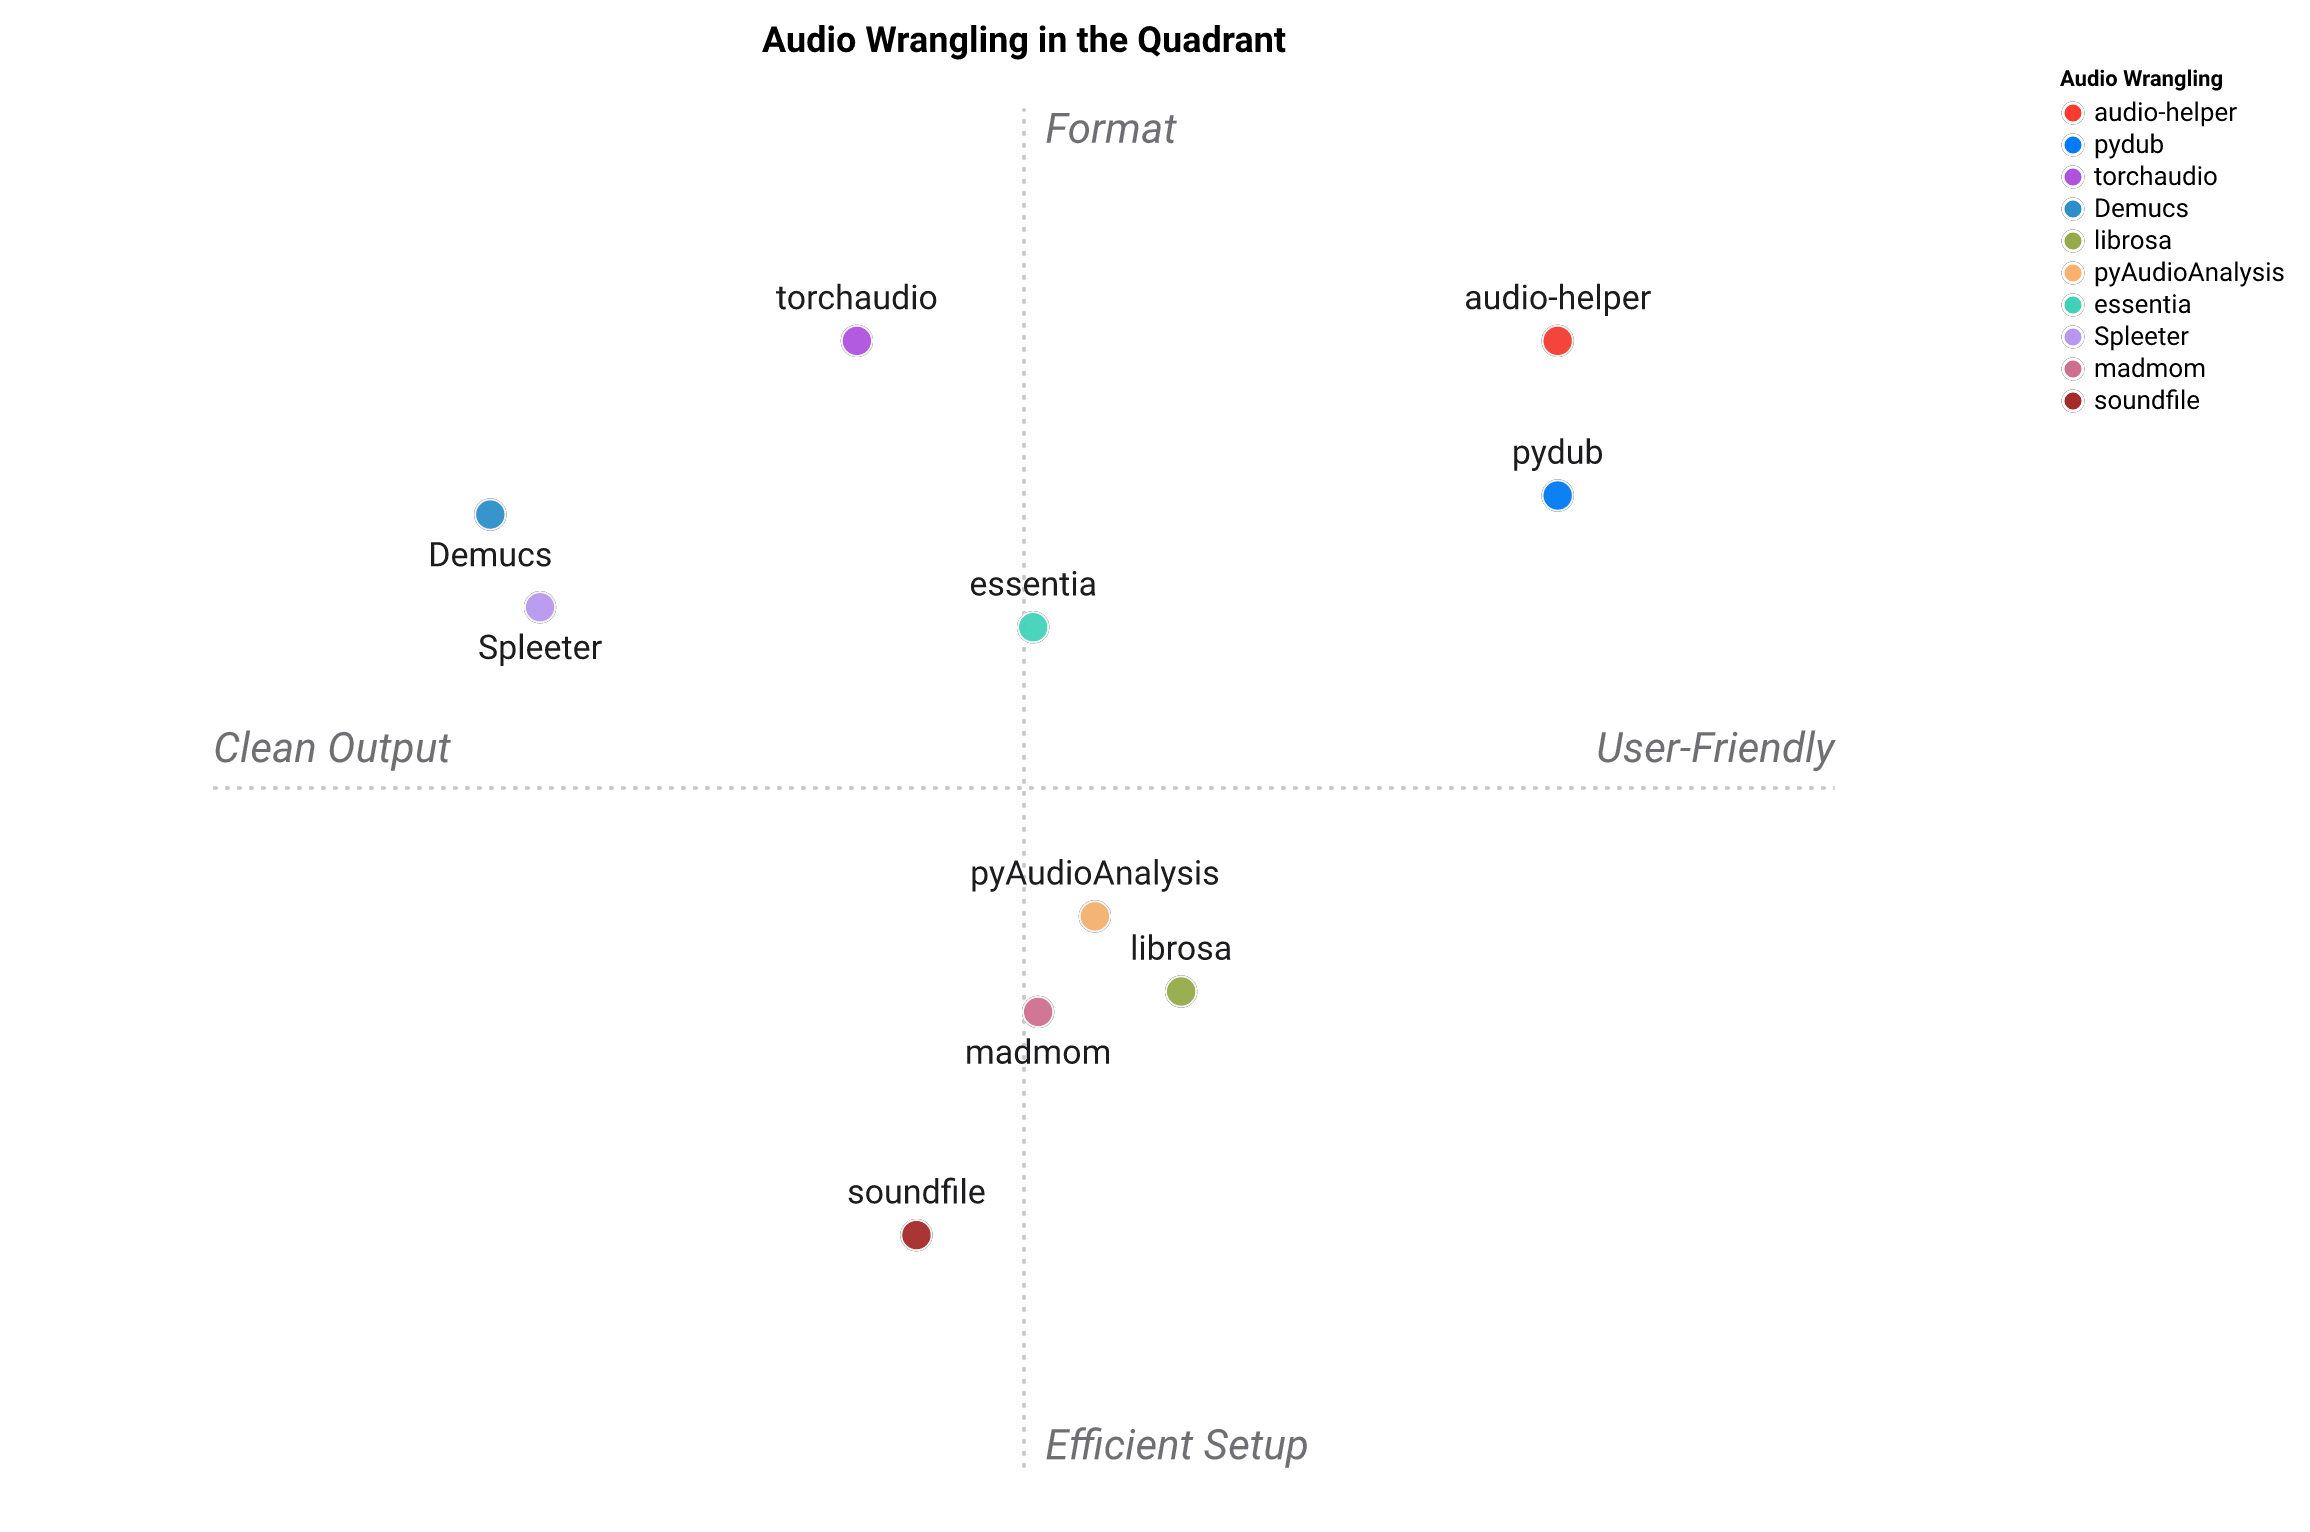
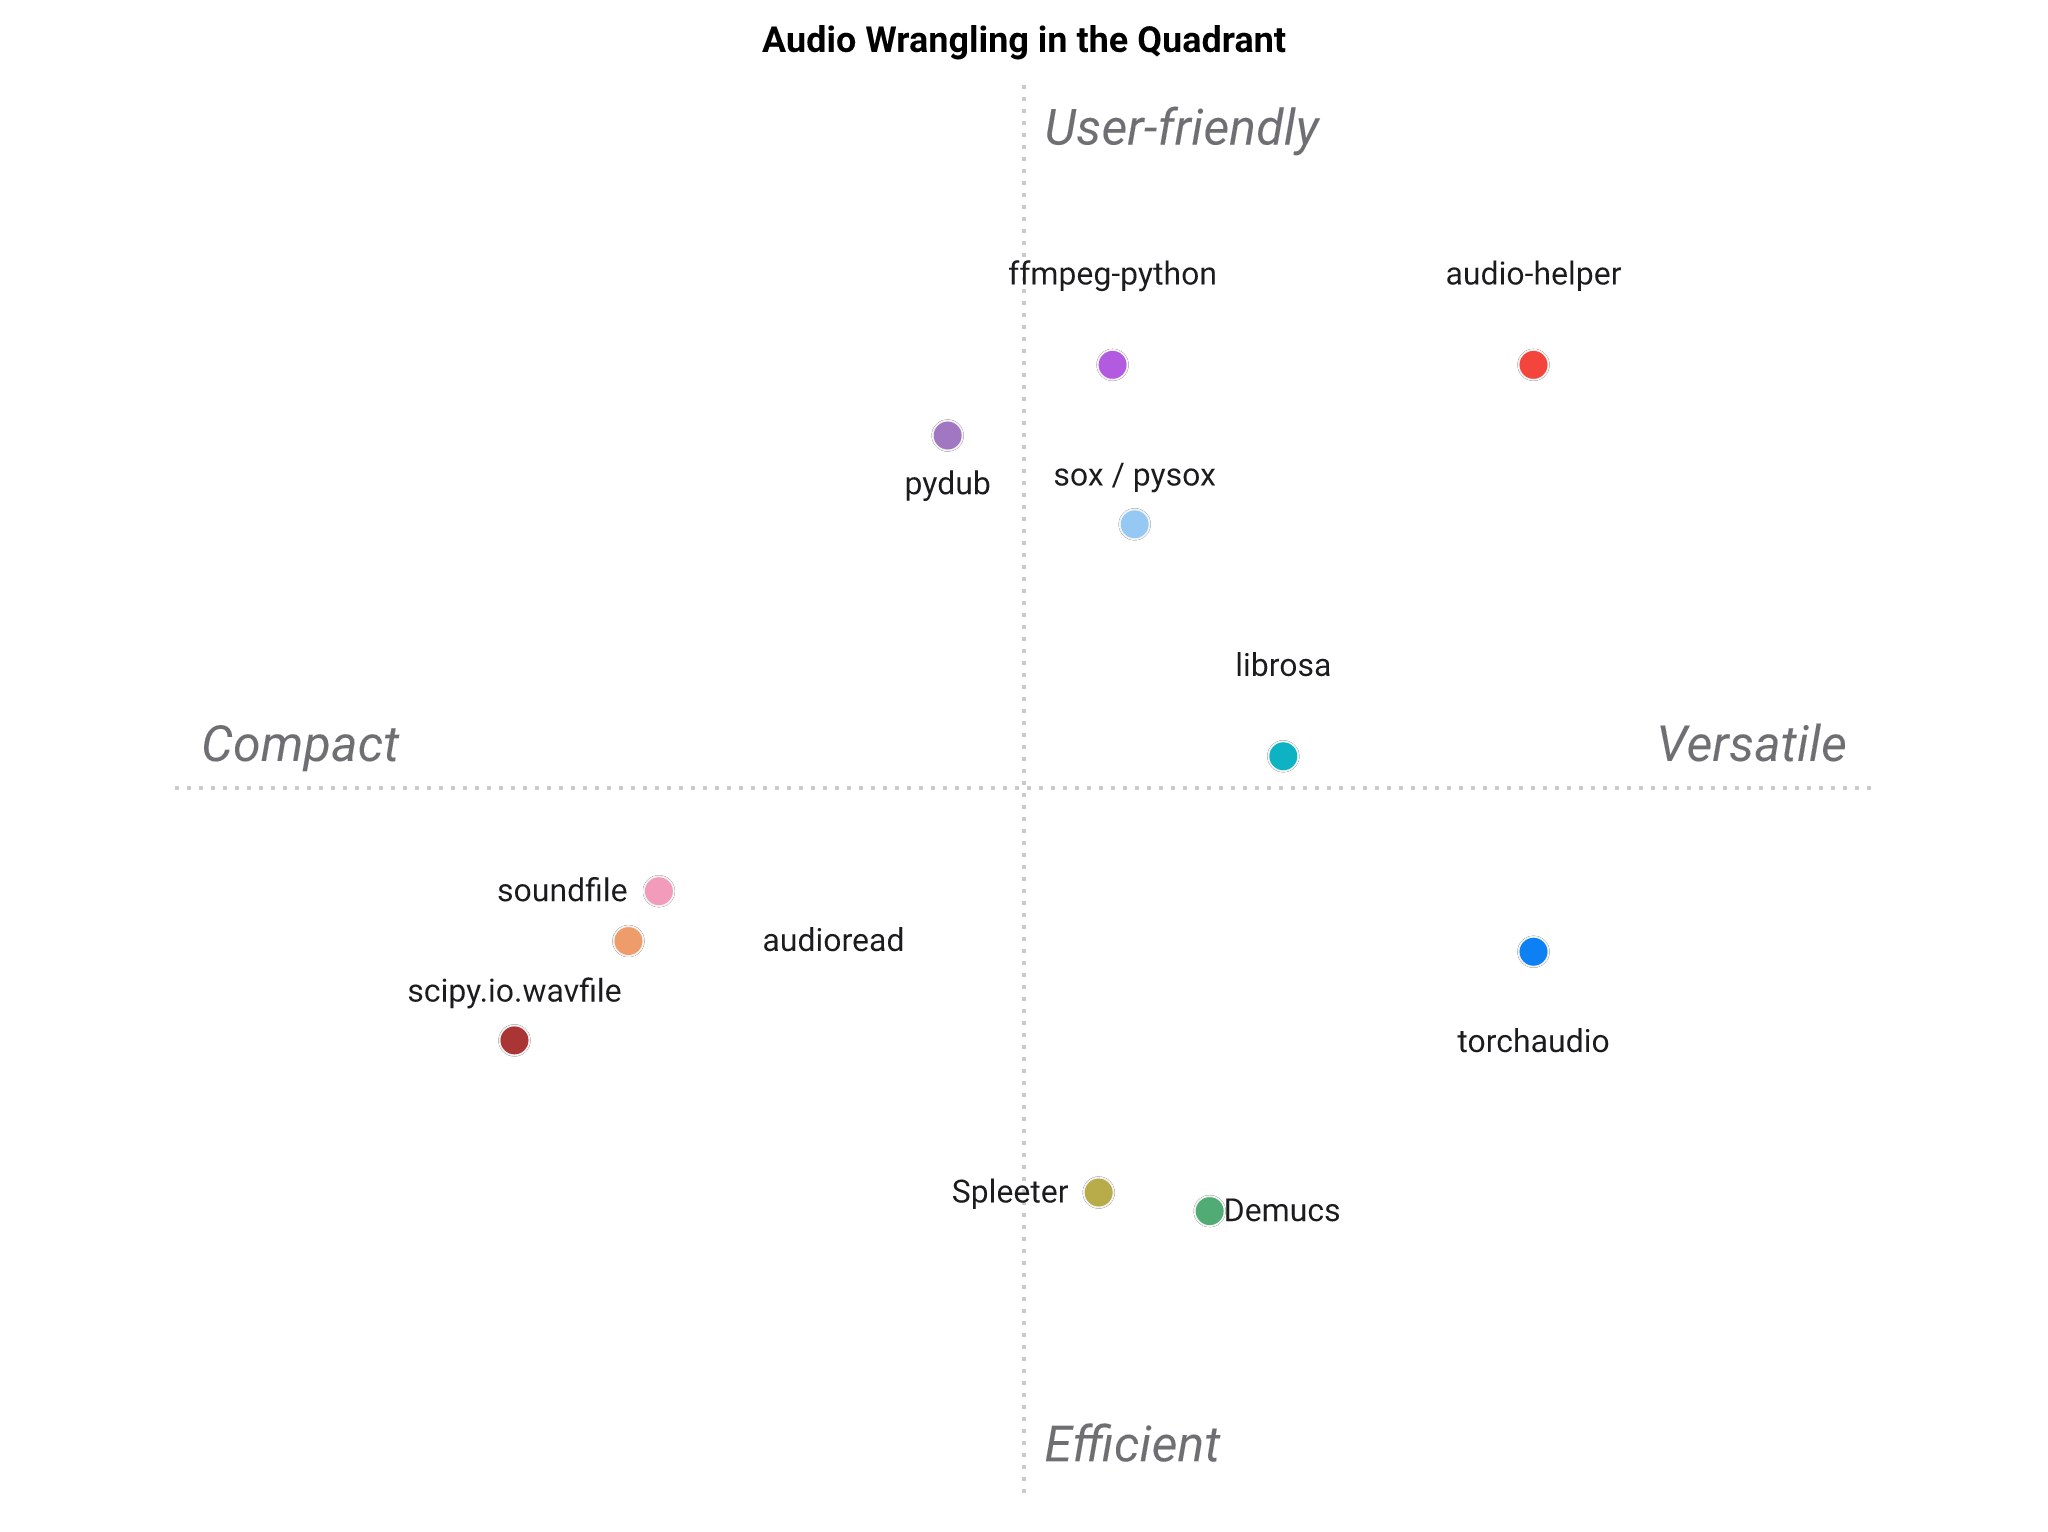
docs(landscape): sharper comparison + regenerated positioning map
Add a "Correct resampling" criterion (audio-helper's Shannon-correct ffmpeg
resampling) and re-point the competitor set from MIR-heavy tools
(essentia/madmom/pyAudioAnalysis) to the real I/O-wrangling neighbours
(ffmpeg-python, sox/pysox, audioread, scipy.io.wavfile). Regenerate the figure
via standpoint 0.6.0 and reconcile the positioning / when-to-pick prose.

diff --git a/PAYSAGE.md b/PAYSAGE.md
@@ -15,18 +15,19 @@ temps réel) n'est pas pénalisée — la note reflète seulement l'adéquation
 ## En un coup d'œil
 
 <!-- TABLE:START -->
-| Manipulation audio | E/S multi-format | Conversion de format | Découpage / concat / silence | Caractéristiques MFCC / spectrales | Séparation de sources | Installation légère | Ergonomie pipeline d'IA |
-| --- | :---: | :---: | :---: | :---: | :---: | :---: | :---: |
-| **audio-helper** | ⭐⭐⭐⭐⭐ | ⭐⭐⭐⭐⭐ | ⭐⭐⭐⭐⭐ | ⭐⭐⭐ | ⭐⭐⭐⭐ | ⭐⭐⭐⭐⭐ | ⭐⭐⭐⭐⭐ |
-| librosa | ⭐⭐⭐ | ⭐⭐ | ⭐⭐⭐ | ⭐⭐⭐⭐⭐ | ⭐ | ⭐⭐⭐⭐ | ⭐⭐⭐ |
-| torchaudio | ⭐⭐⭐⭐ | ⭐⭐⭐ | ⭐⭐ | ⭐⭐⭐⭐ | ⭐⭐⭐⭐ | ⭐ | ⭐⭐⭐ |
-| pydub | ⭐⭐⭐⭐ | ⭐⭐⭐⭐ | ⭐⭐⭐⭐⭐ | ⭐ | ⭐ | ⭐⭐⭐⭐⭐ | ⭐⭐⭐⭐ |
-| soundfile | ⭐⭐ | ⭐ | ⭐ | ⭐ | ⭐ | ⭐⭐⭐⭐⭐ | ⭐⭐⭐ |
-| pyAudioAnalysis | ⭐⭐⭐ | ⭐⭐⭐ | ⭐⭐⭐ | ⭐⭐⭐⭐⭐ | ⭐ | ⭐⭐⭐ | ⭐⭐ |
-| essentia | ⭐⭐⭐⭐ | ⭐⭐⭐ | ⭐⭐⭐ | ⭐⭐⭐⭐⭐ | ⭐⭐ | ⭐⭐ | ⭐⭐ |
-| madmom | ⭐⭐⭐ | ⭐⭐ | ⭐⭐⭐ | ⭐⭐⭐⭐⭐ | ⭐ | ⭐⭐⭐ | ⭐⭐ |
-| Demucs | ⭐⭐⭐ | ⭐⭐ | ⭐ | ⭐ | ⭐⭐⭐⭐⭐ | ⭐ | ⭐⭐ |
-| Spleeter | ⭐⭐⭐ | ⭐⭐ | ⭐ | ⭐ | ⭐⭐⭐⭐ | ⭐ | ⭐⭐ |
+| Manipulation audio | E/S multi-format | Conversion de format | Découpage / concat / silence | Caractéristiques spectrales / MFCC | Séparation de sources | Rééchantillonnage correct | Installation légère | Ergonomie pipeline d'IA |
+| --- | :---: | :---: | :---: | :---: | :---: | :---: | :---: | :---: |
+| **audio-helper** | ⭐⭐⭐⭐⭐ | ⭐⭐⭐⭐⭐ | ⭐⭐⭐⭐⭐ | ⭐⭐⭐ | ⭐⭐⭐⭐ | ⭐⭐⭐⭐⭐ | ⭐⭐⭐⭐⭐ | ⭐⭐⭐⭐⭐ |
+| pydub | ⭐⭐⭐⭐ | ⭐⭐⭐⭐ | ⭐⭐⭐⭐⭐ | ⭐ | ⭐ | ⭐⭐ | ⭐⭐⭐⭐⭐ | ⭐⭐⭐ |
+| librosa | ⭐⭐⭐ | ⭐⭐ | ⭐⭐⭐ | ⭐⭐⭐⭐⭐ | ⭐ | ⭐⭐⭐⭐⭐ | ⭐⭐⭐ | ⭐⭐⭐ |
+| soundfile | ⭐⭐ | ⭐⭐ | ⭐ | ⭐ | ⭐ | ⭐ | ⭐⭐⭐⭐⭐ | ⭐⭐⭐ |
+| torchaudio | ⭐⭐⭐⭐ | ⭐⭐⭐ | ⭐⭐ | ⭐⭐⭐⭐ | ⭐⭐⭐⭐ | ⭐⭐⭐⭐ | ⭐ | ⭐⭐⭐ |
+| ffmpeg-python | ⭐⭐⭐⭐⭐ | ⭐⭐⭐⭐⭐ | ⭐⭐⭐⭐ | ⭐ | ⭐ | ⭐⭐⭐⭐⭐ | ⭐⭐⭐⭐⭐ | ⭐⭐ |
+| sox / pysox | ⭐⭐⭐⭐ | ⭐⭐⭐⭐ | ⭐⭐⭐⭐ | ⭐⭐ | ⭐ | ⭐⭐⭐⭐⭐ | ⭐⭐⭐⭐ | ⭐⭐ |
+| audioread | ⭐⭐⭐ | ⭐ | ⭐ | ⭐ | ⭐ | ⭐ | ⭐⭐⭐⭐⭐ | ⭐⭐ |
+| scipy.io.wavfile | ⭐ | ⭐ | ⭐ | ⭐ | ⭐ | ⭐ | ⭐⭐⭐⭐⭐ | ⭐⭐ |
+| Demucs | ⭐⭐⭐ | ⭐⭐ | ⭐ | ⭐ | ⭐⭐⭐⭐⭐ | ⭐⭐⭐ | ⭐ | ⭐⭐ |
+| Spleeter | ⭐⭐⭐ | ⭐⭐ | ⭐ | ⭐ | ⭐⭐⭐⭐ | ⭐⭐ | ⭐ | ⭐⭐ |
 <!-- TABLE:END -->
 
 ## Carte de positionnement
@@ -36,7 +37,7 @@ Représentation 2D du tableau ci-dessus.
 
 ![Carte de positionnement](https://raw.githubusercontent.com/warith-harchaoui/audio-helper/main/assets/paysage.png)
 
-La carte est un résumé en 2D des 7 critères : à lire comme une forme, pas comme un classement. « audio-helper » se situe dans le coin en haut à droite. Les axes se lisent **Horizontal — Flexibilité ↔ Simplicité** et **Vertical — Efficacité ↔ Précision**.
+La carte est un résumé en 2D des 8 critères : à lire comme une forme, pas comme un classement. « audio-helper » se situe dans le coin en haut à droite. Les axes se lisent **Horizontal — Facilité d'installation ↔ Flexibilité des formats** et **Vertical — Qualité audio ↔ Polyvalence fonctionnelle**.
 <!-- FIGURE:END -->
 
 ## Positionnement
@@ -46,25 +47,30 @@ l'**ergonomie à la pydub** (chargement / conversion / découpage /
 concaténation / silence en une ligne) et des **besoins des pipelines
 d'IA** (séparation de sources à la demande, similarité MFCC pour les
 comparaisons A/B). Il ne cherche délibérément *pas* à concurrencer
-`librosa` ou `essentia` sur le versant analyse, et il garde `torch`
+`librosa` sur le versant analyse, et il garde `torch`
 **optionnel** — on ne paie le coût de ~2 Go de torch/torchaudio que si
 l'on appelle réellement `separate_sources` (Demucs est livré derrière
 l'extra `[demucs]`). Ce compromis est le principal facteur de
 différenciation face à `torchaudio` (torch obligatoire) et face à
-`librosa` (pas de séparation de sources).
+`librosa` (centré analyse, mince sur la conversion de format et l'E/S du
+quotidien).
 
 La nuance derrière chaque note mérite d'être explicitée. L'E/S
 multi-format d'`audio-helper` s'appuie sur un repli ffmpeg, si bien
 qu'elle lit et écrit à peu près tout ce que ffmpeg comprend, là où
-`soundfile` ne couvre que WAV / FLAC / OGG et où le chemin d'écriture de
-`librosa` est limité. Côté caractéristiques, `librosa`, `essentia`,
-`pyAudioAnalysis` et `madmom` sont de niveau MIR et méritent cinq
+`soundfile` ne couvre que WAV / FLAC / OGG, où `audioread` est en lecture
+seule et où `scipy.io.wavfile` ne gère que le WAV. Côté caractéristiques,
+`librosa` est la référence de niveau MIR et mérite cinq
 étoiles — `audio-helper` expose la similarité MFCC pour la comparaison
-A/B, pas une suite d'analyse complète, d'où sa note médiane. Sur la
-séparation, `Demucs` est à l'état de l'art et `audio-helper` l'enveloppe
-directement ; `torchaudio` atteint une qualité comparable via son
-pipeline HDEMUCS, tandis que `Spleeter` repose sur TensorFlow et n'est
-plus maintenu.
+A/B, pas une suite d'analyse complète, d'où sa note médiane. Le
+rééchantillonnage correct est une force discrète mais réelle :
+`audio-helper`, `pydub`, `soundfile`, `ffmpeg-python` et `audioread`
+rééchantillonnent proprement, tandis que `torchaudio` et les modèles de
+séparation (`Demucs`, `Spleeter`) en laissent la charge à l'utilisateur.
+Sur la séparation, `Demucs` est à l'état de l'art et `audio-helper`
+l'enveloppe directement ; `torchaudio` atteint une qualité comparable via
+son pipeline HDEMUCS, tandis que `Spleeter` repose sur TensorFlow et
+n'est plus maintenu.
 
 ## Quand choisir quoi
 
@@ -79,8 +85,10 @@ plus maintenu.
   zéro-copie entre l'E/S audio et son modèle.
 - **`pydub`** — script rapide, montage à la volée, sans MFCC ni
   séparation.
+- **`soundfile`** — lecture/écriture WAV / FLAC / OGG simple et rapide
+  quand on n'a besoin ni de conversion ni d'analyse.
+- **`ffmpeg-python` / `sox` / `pysox`** — conversion de format et
+  transcodage lourds, en pilotant soi-même la CLI ffmpeg ou SoX.
 - **`Demucs` / `Spleeter`** — séparation de sources en production avec
   son propre wrapper autour du modèle sous-jacent.
-- **`essentia` / `madmom` / `pyAudioAnalysis`** — extraction
-  d'information musicale, estimation de tempo/temps forts/rythme.
 </content>

diff --git a/LANDSCAPE.md b/LANDSCAPE.md
@@ -13,18 +13,19 @@ is not penalised — the score just reflects fit to *this* niche.
 ## At a glance
 
 <!-- TABLE:START -->
-| Audio Wrangling | Multi-format I/O | Format conversion | Split / concat / silence | MFCC / spectral features | Source separation | Light install | AI-pipeline ergonomics |
-| --- | :---: | :---: | :---: | :---: | :---: | :---: | :---: |
-| **audio-helper** | ⭐⭐⭐⭐⭐ | ⭐⭐⭐⭐⭐ | ⭐⭐⭐⭐⭐ | ⭐⭐⭐ | ⭐⭐⭐⭐ | ⭐⭐⭐⭐⭐ | ⭐⭐⭐⭐⭐ |
-| librosa | ⭐⭐⭐ | ⭐⭐ | ⭐⭐⭐ | ⭐⭐⭐⭐⭐ | ⭐ | ⭐⭐⭐⭐ | ⭐⭐⭐ |
-| torchaudio | ⭐⭐⭐⭐ | ⭐⭐⭐ | ⭐⭐ | ⭐⭐⭐⭐ | ⭐⭐⭐⭐ | ⭐ | ⭐⭐⭐ |
-| pydub | ⭐⭐⭐⭐ | ⭐⭐⭐⭐ | ⭐⭐⭐⭐⭐ | ⭐ | ⭐ | ⭐⭐⭐⭐⭐ | ⭐⭐⭐⭐ |
-| soundfile | ⭐⭐ | ⭐ | ⭐ | ⭐ | ⭐ | ⭐⭐⭐⭐⭐ | ⭐⭐⭐ |
-| pyAudioAnalysis | ⭐⭐⭐ | ⭐⭐⭐ | ⭐⭐⭐ | ⭐⭐⭐⭐⭐ | ⭐ | ⭐⭐⭐ | ⭐⭐ |
-| essentia | ⭐⭐⭐⭐ | ⭐⭐⭐ | ⭐⭐⭐ | ⭐⭐⭐⭐⭐ | ⭐⭐ | ⭐⭐ | ⭐⭐ |
-| madmom | ⭐⭐⭐ | ⭐⭐ | ⭐⭐⭐ | ⭐⭐⭐⭐⭐ | ⭐ | ⭐⭐⭐ | ⭐⭐ |
-| Demucs | ⭐⭐⭐ | ⭐⭐ | ⭐ | ⭐ | ⭐⭐⭐⭐⭐ | ⭐ | ⭐⭐ |
-| Spleeter | ⭐⭐⭐ | ⭐⭐ | ⭐ | ⭐ | ⭐⭐⭐⭐ | ⭐ | ⭐⭐ |
+| Audio Wrangling | Multi-format I/O | Format conversion | Split / concat / silence | Spectral / MFCC features | Source separation | Correct resampling | Light install | AI-pipeline ergonomics |
+| --- | :---: | :---: | :---: | :---: | :---: | :---: | :---: | :---: |
+| **audio-helper** | ⭐⭐⭐⭐⭐ | ⭐⭐⭐⭐⭐ | ⭐⭐⭐⭐⭐ | ⭐⭐⭐ | ⭐⭐⭐⭐ | ⭐⭐⭐⭐⭐ | ⭐⭐⭐⭐⭐ | ⭐⭐⭐⭐⭐ |
+| pydub | ⭐⭐⭐⭐ | ⭐⭐⭐⭐ | ⭐⭐⭐⭐⭐ | ⭐ | ⭐ | ⭐⭐ | ⭐⭐⭐⭐⭐ | ⭐⭐⭐ |
+| librosa | ⭐⭐⭐ | ⭐⭐ | ⭐⭐⭐ | ⭐⭐⭐⭐⭐ | ⭐ | ⭐⭐⭐⭐⭐ | ⭐⭐⭐ | ⭐⭐⭐ |
+| soundfile | ⭐⭐ | ⭐⭐ | ⭐ | ⭐ | ⭐ | ⭐ | ⭐⭐⭐⭐⭐ | ⭐⭐⭐ |
+| torchaudio | ⭐⭐⭐⭐ | ⭐⭐⭐ | ⭐⭐ | ⭐⭐⭐⭐ | ⭐⭐⭐⭐ | ⭐⭐⭐⭐ | ⭐ | ⭐⭐⭐ |
+| ffmpeg-python | ⭐⭐⭐⭐⭐ | ⭐⭐⭐⭐⭐ | ⭐⭐⭐⭐ | ⭐ | ⭐ | ⭐⭐⭐⭐⭐ | ⭐⭐⭐⭐⭐ | ⭐⭐ |
+| sox / pysox | ⭐⭐⭐⭐ | ⭐⭐⭐⭐ | ⭐⭐⭐⭐ | ⭐⭐ | ⭐ | ⭐⭐⭐⭐⭐ | ⭐⭐⭐⭐ | ⭐⭐ |
+| audioread | ⭐⭐⭐ | ⭐ | ⭐ | ⭐ | ⭐ | ⭐ | ⭐⭐⭐⭐⭐ | ⭐⭐ |
+| scipy.io.wavfile | ⭐ | ⭐ | ⭐ | ⭐ | ⭐ | ⭐ | ⭐⭐⭐⭐⭐ | ⭐⭐ |
+| Demucs | ⭐⭐⭐ | ⭐⭐ | ⭐ | ⭐ | ⭐⭐⭐⭐⭐ | ⭐⭐⭐ | ⭐ | ⭐⭐ |
+| Spleeter | ⭐⭐⭐ | ⭐⭐ | ⭐ | ⭐ | ⭐⭐⭐⭐ | ⭐⭐ | ⭐ | ⭐⭐ |
 <!-- TABLE:END -->
 
 ## Positioning map
@@ -34,7 +35,7 @@ is not penalised — the score just reflects fit to *this* niche.
 
 ![Positioning map](https://raw.githubusercontent.com/warith-harchaoui/audio-helper/main/assets/landscape.png)
 
-The map is a 2-D summary of the seven criteria, so read it as a shape, not a scoreboard. `audio-helper` is at the top-right corner. The axes read **Horizontal — Clean Output ↔ User-Friendly** and **Vertical — Efficient Setup ↔ Format**.
+The map is a 2-D summary of the eight criteria, so read it as a shape, not a scoreboard. `audio-helper` is at the top-right corner. The axes read **Horizontal — Compact ↔ Versatile** and **Vertical — Efficient ↔ User-friendly**.
 <!-- FIGURE:END -->
 
 ## Positioning
@@ -43,22 +44,27 @@ The map is a 2-D summary of the seven criteria, so read it as a shape, not a sco
 (one-line load / convert / split / concat / silence) and **AI-pipeline
 needs** (source separation on demand, MFCC similarity for A/B
 comparisons). It intentionally does *not* try to compete with `librosa`
-or `essentia` on the analysis side, and it keeps `torch` **optional** —
+on the analysis side, and it keeps `torch` **optional** —
 you only pay the ~2 GB torch/torchaudio cost if you actually call
 `separate_sources` (Demucs ships behind the `[demucs]` extra). That
 trade-off is the main differentiator against `torchaudio` (torch is
-mandatory) and against `librosa` (no source separation).
+mandatory) and against `librosa` (analysis-first, thin on format
+conversion and everyday I/O).
 
 The nuance behind each rating is worth spelling out. `audio-helper`'s
 multi-format I/O leans on an ffmpeg fallback, so it reads and writes
 essentially anything ffmpeg understands, where `soundfile` covers only
-WAV / FLAC / OGG and `librosa`'s write path is limited. On features,
-`librosa`, `essentia`, `pyAudioAnalysis` and `madmom` are MIR-grade and
-earn five stars — `audio-helper` exposes MFCC similarity for A/B
-comparison, not a full analysis suite, hence its middle rating. On
-separation, `Demucs` is state-of-the-art and `audio-helper` wraps it
-directly; `torchaudio` reaches similar quality through its HDEMUCS
-pipeline, while `Spleeter` is TensorFlow-based and unmaintained.
+WAV / FLAC / OGG, `audioread` is read-only, and `scipy.io.wavfile`
+handles WAV alone. On features, `librosa` is the MIR-grade reference and
+earns five stars — `audio-helper` exposes MFCC similarity for A/B
+comparison, not a full analysis suite, hence its middle rating. Correct
+resampling is a quiet but real strength: `audio-helper`, `pydub`,
+`soundfile`, `ffmpeg-python` and `audioread` resample cleanly, whereas
+`torchaudio` and the separation models (`Demucs`, `Spleeter`) leave that
+responsibility to you. On separation, `Demucs` is state-of-the-art and
+`audio-helper` wraps it directly; `torchaudio` reaches similar quality
+through its HDEMUCS pipeline, while `Spleeter` is TensorFlow-based and
+unmaintained.
 
 ## When to pick what
 
@@ -71,9 +77,11 @@ pipeline, while `Spleeter` is TensorFlow-based and unmaintained.
   between audio I/O and your model.
 - **`pydub`** — quick scripting, DJ-style cut/paste, no MFCC or
   separation needed.
+- **`soundfile`** — plain, fast WAV / FLAC / OGG read/write when you
+  need neither conversion nor analysis.
+- **`ffmpeg-python` / `sox` / `pysox`** — heavy format conversion and
+  transcoding, driving the ffmpeg or SoX CLI yourself.
 - **`Demucs` / `Spleeter`** — production source separation with your own
   wrapper around the underlying model.
-- **`essentia` / `madmom` / `pyAudioAnalysis`** — music-information
-  retrieval, beat/downbeat/tempo estimation.
 </content>
 </invoke>
